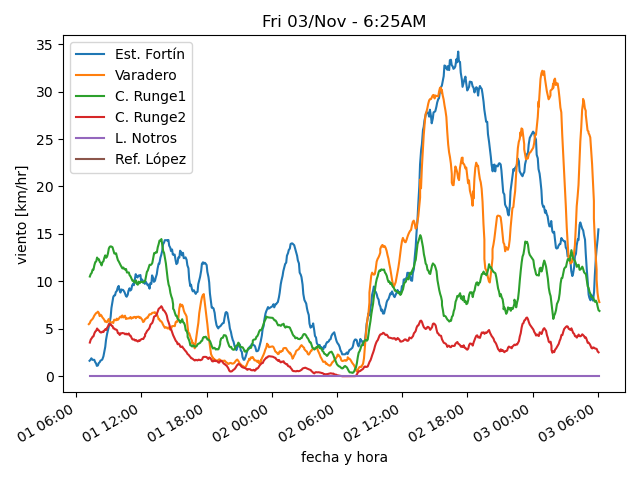
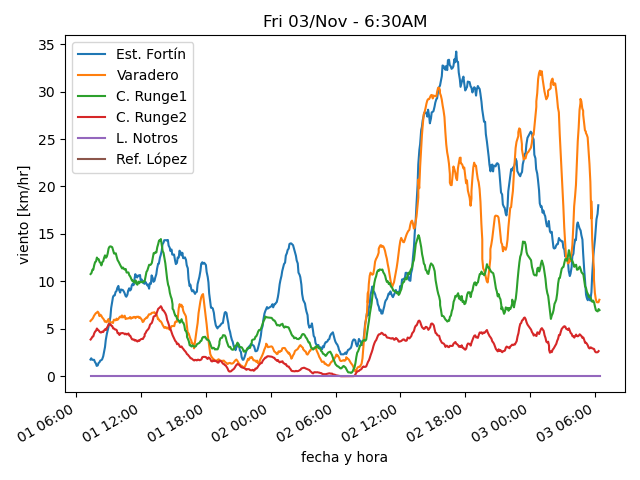
actualiza datos

diff --git a/estaciones/estacion4.html b/estaciones/estacion4.html
@@ -18,32 +18,32 @@
     </tr>
     <tr>
      <td class="stats_data">
-      6:04AM
+      6:19AM
      </td>
     </tr>
     <tr>
      <td class="stats_data">
-      5.0⁰C
+      5.4⁰C
      </td>
     </tr>
     <tr>
      <td class="stats_data">
-      -0.3⁰C
+      -0.5⁰C
      </td>
     </tr>
     <tr>
      <td class="stats_data">
-      68.5%
+      65.9%
      </td>
     </tr>
     <tr>
      <td class="stats_data">
-      1020.01hPa
+      1019.91hPa
      </td>
     </tr>
     <tr>
      <td class="stats_data">
-      0.9/2.1 km/hr SW
+      2.3/3.6 km/hr SW
      </td>
     </tr>
     <tr>
@@ -58,7 +58,7 @@
     </tr>
     <tr>
      <td class="stats_data">
-      0.1 W/m²
+      0.8 W/m²
      </td>
     </tr>
    </tbody>

diff --git a/estaciones/estacion3.html b/estaciones/estacion3.html
@@ -18,32 +18,32 @@
     </tr>
     <tr>
      <td class="stats_data">
-      6:09AM
+      6:24AM
      </td>
     </tr>
     <tr>
      <td class="stats_data">
-      5.3⁰C
+      5.7⁰C
      </td>
     </tr>
     <tr>
      <td class="stats_data">
-      0.4⁰C
+      0.6⁰C
      </td>
     </tr>
     <tr>
      <td class="stats_data">
-      70.5%
+      69.5%
      </td>
     </tr>
     <tr>
      <td class="stats_data">
-      1011.14hPa
+      1011.04hPa
      </td>
     </tr>
     <tr>
      <td class="stats_data">
-      5.2/6.9 km/hr WNW
+      5.2/6.9 km/hr W
      </td>
     </tr>
     <tr>
@@ -58,7 +58,7 @@
     </tr>
     <tr>
      <td class="stats_data">
-      0.0 W/m²
+      0.4 W/m²
      </td>
     </tr>
    </tbody>

diff --git a/estaciones/estacion2.html b/estaciones/estacion2.html
@@ -18,22 +18,22 @@
     </tr>
     <tr>
      <td class="stats_data">
-      6:09AM
+      6:24AM
      </td>
     </tr>
     <tr>
      <td class="stats_data">
-      6.5⁰C
+      6.7⁰C
      </td>
     </tr>
     <tr>
      <td class="stats_data">
-      1.4⁰C
+      1.5⁰C
      </td>
     </tr>
     <tr>
      <td class="stats_data">
-      70.3%
+      69.3%
      </td>
     </tr>
     <tr>
@@ -43,7 +43,7 @@
     </tr>
     <tr>
      <td class="stats_data">
-      5.1/7.4 km/hr W
+      7.0/9.5 km/hr WNW
      </td>
     </tr>
     <tr>
@@ -58,7 +58,7 @@
     </tr>
     <tr>
      <td class="stats_data">
-      0.0 W/m²
+      0.9 W/m²
      </td>
     </tr>
    </tbody>

diff --git a/estaciones/estacion1.html b/estaciones/estacion1.html
@@ -18,22 +18,22 @@
     </tr>
     <tr>
      <td class="stats_data">
-      6:03AM
+      6:18AM
      </td>
     </tr>
     <tr>
      <td class="stats_data">
-      6.3⁰C
+      5.8⁰C
      </td>
     </tr>
     <tr>
      <td class="stats_data">
-      0.1⁰C
+      -0.1⁰C
      </td>
     </tr>
     <tr>
      <td class="stats_data">
-      64.5%
+      66.0%
      </td>
     </tr>
     <tr>
@@ -43,7 +43,7 @@
     </tr>
     <tr>
      <td class="stats_data">
-      11.3/15.3 km/hr SW
+      8.8/19.3 km/hr SW
      </td>
     </tr>
     <tr>

diff --git a/estaciones/estacion5.html b/estaciones/estacion5.html
@@ -18,27 +18,27 @@
     </tr>
     <tr>
      <td class="stats_data">
-      6:05AM
+      6:25AM
      </td>
     </tr>
     <tr>
      <td class="stats_data">
-      2.8⁰C
+      2.9⁰C
      </td>
     </tr>
     <tr>
      <td class="stats_data">
-      0.2⁰C
+      0.4⁰C
      </td>
     </tr>
     <tr>
      <td class="stats_data">
-      82.0%
+      83.0%
      </td>
     </tr>
     <tr>
      <td class="stats_data">
-      1024.72hPa
+      1024.86hPa
      </td>
     </tr>
     <tr>
